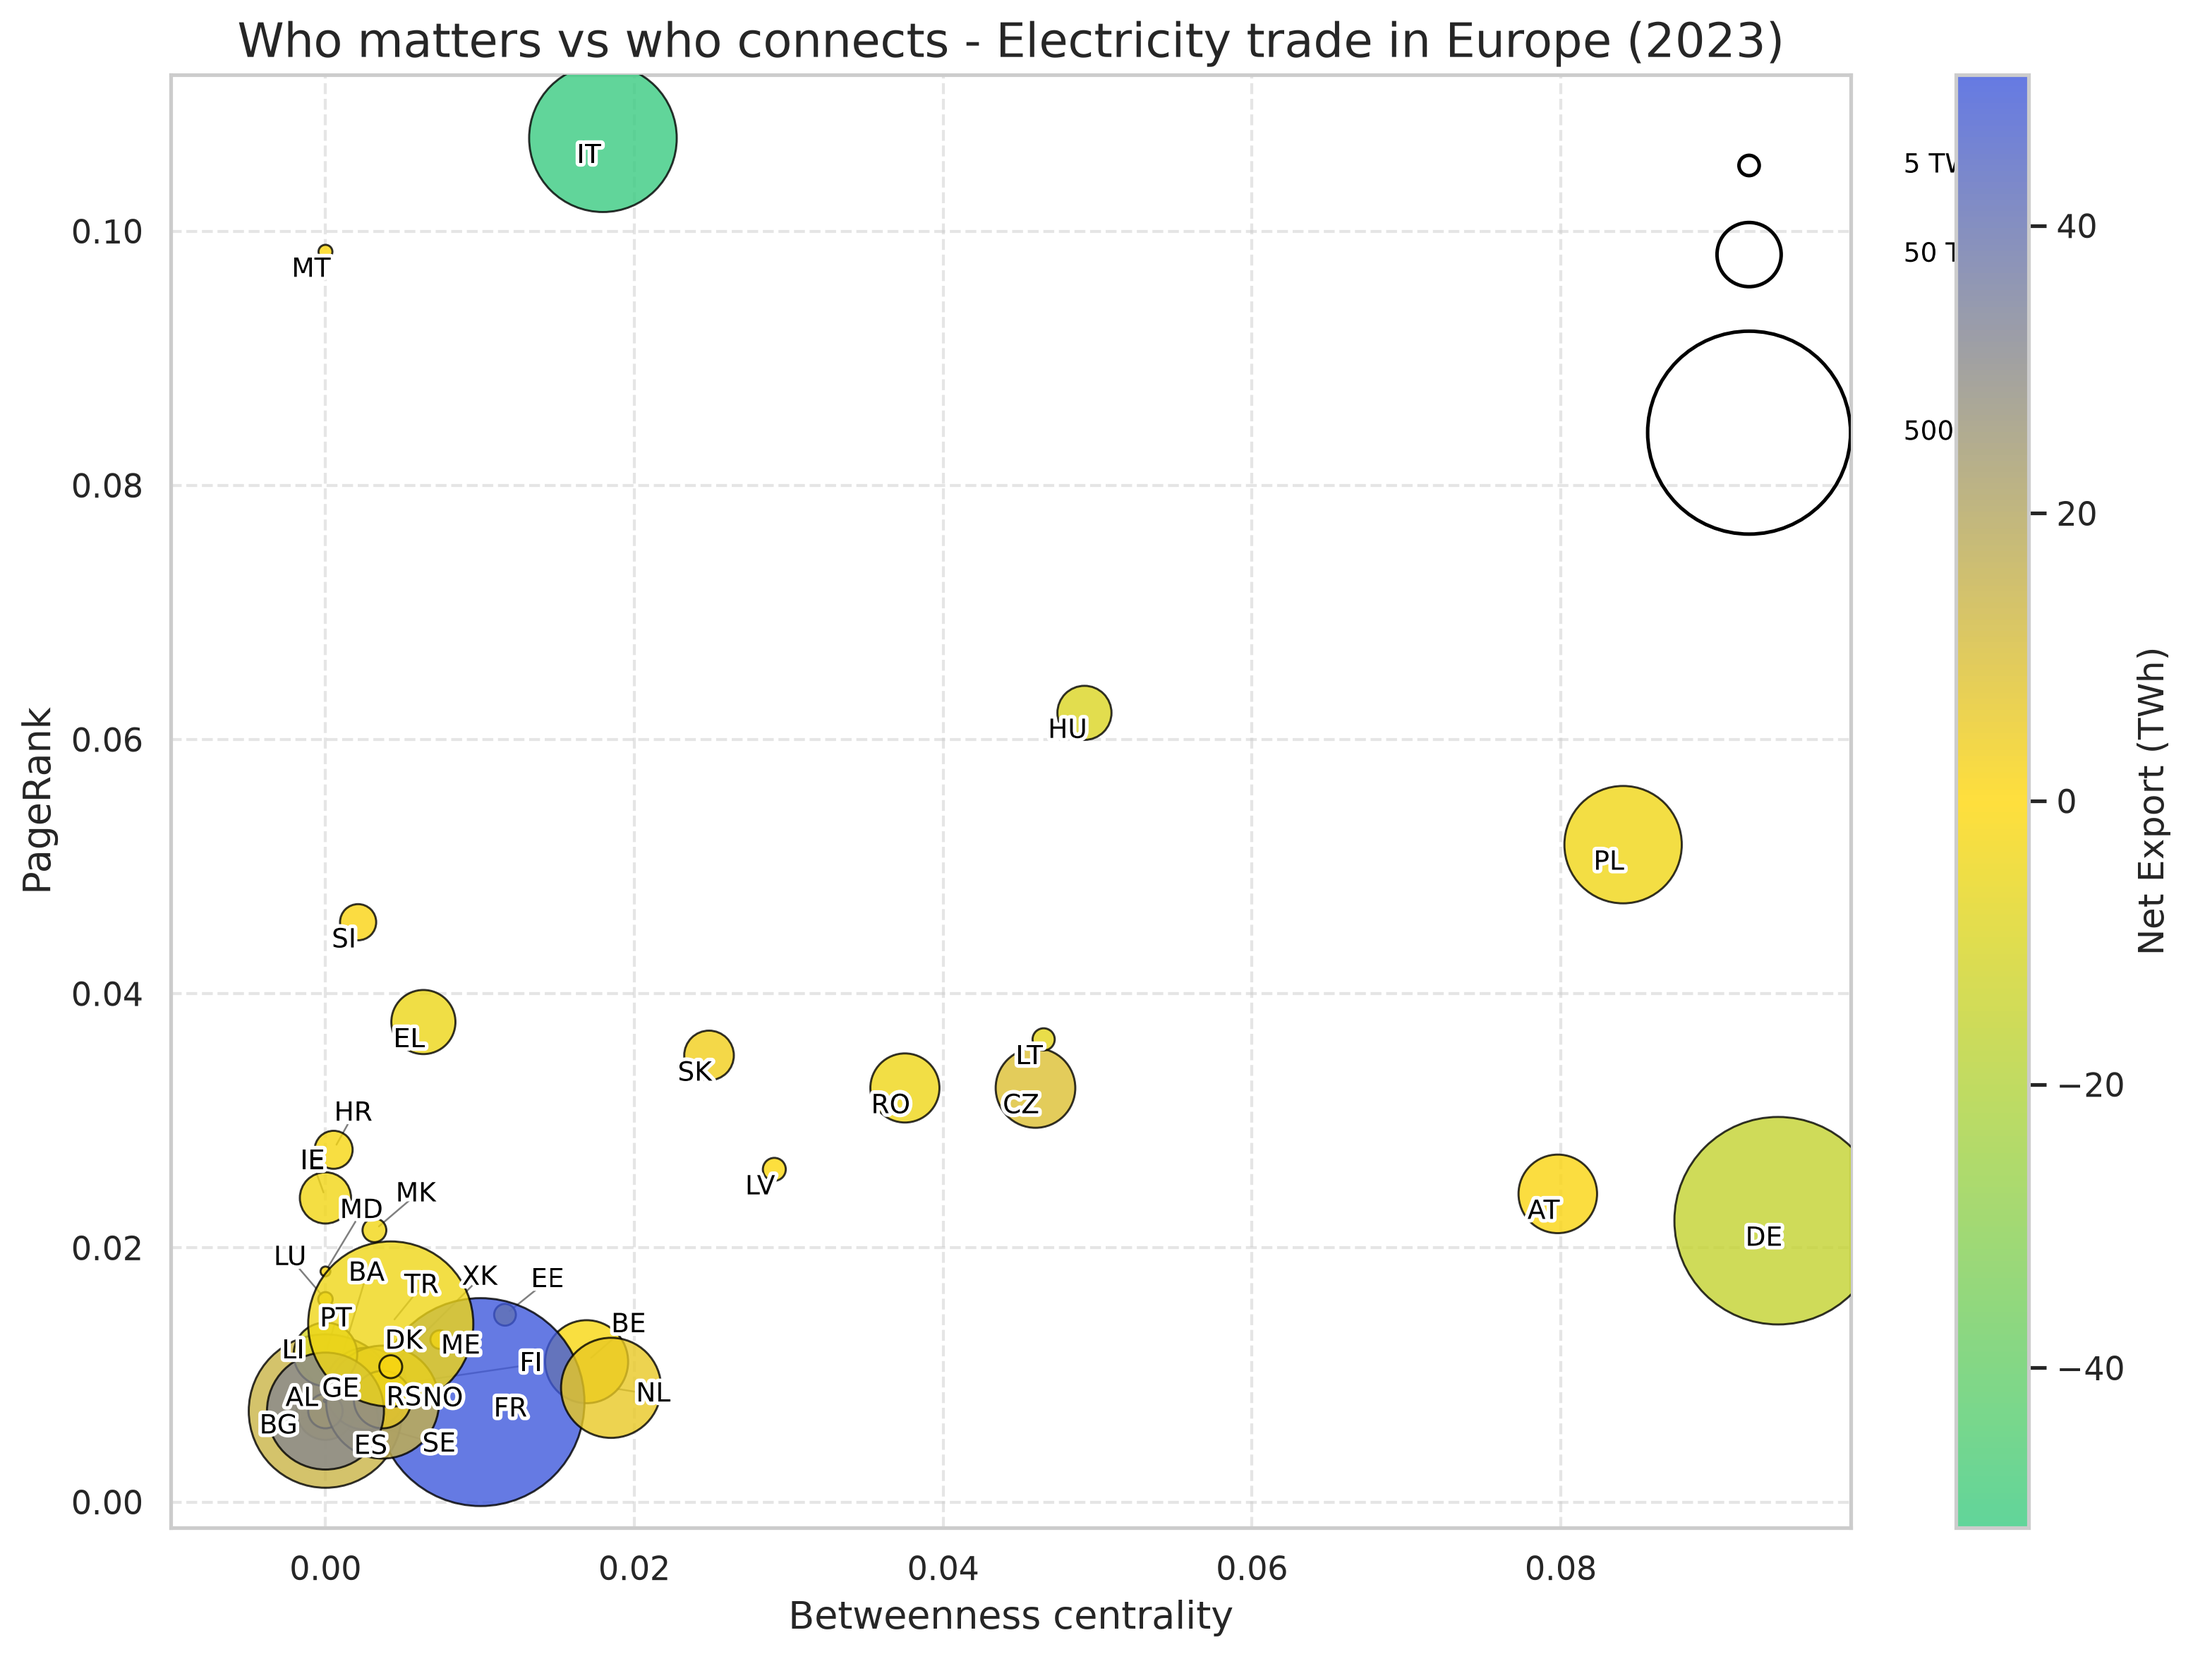
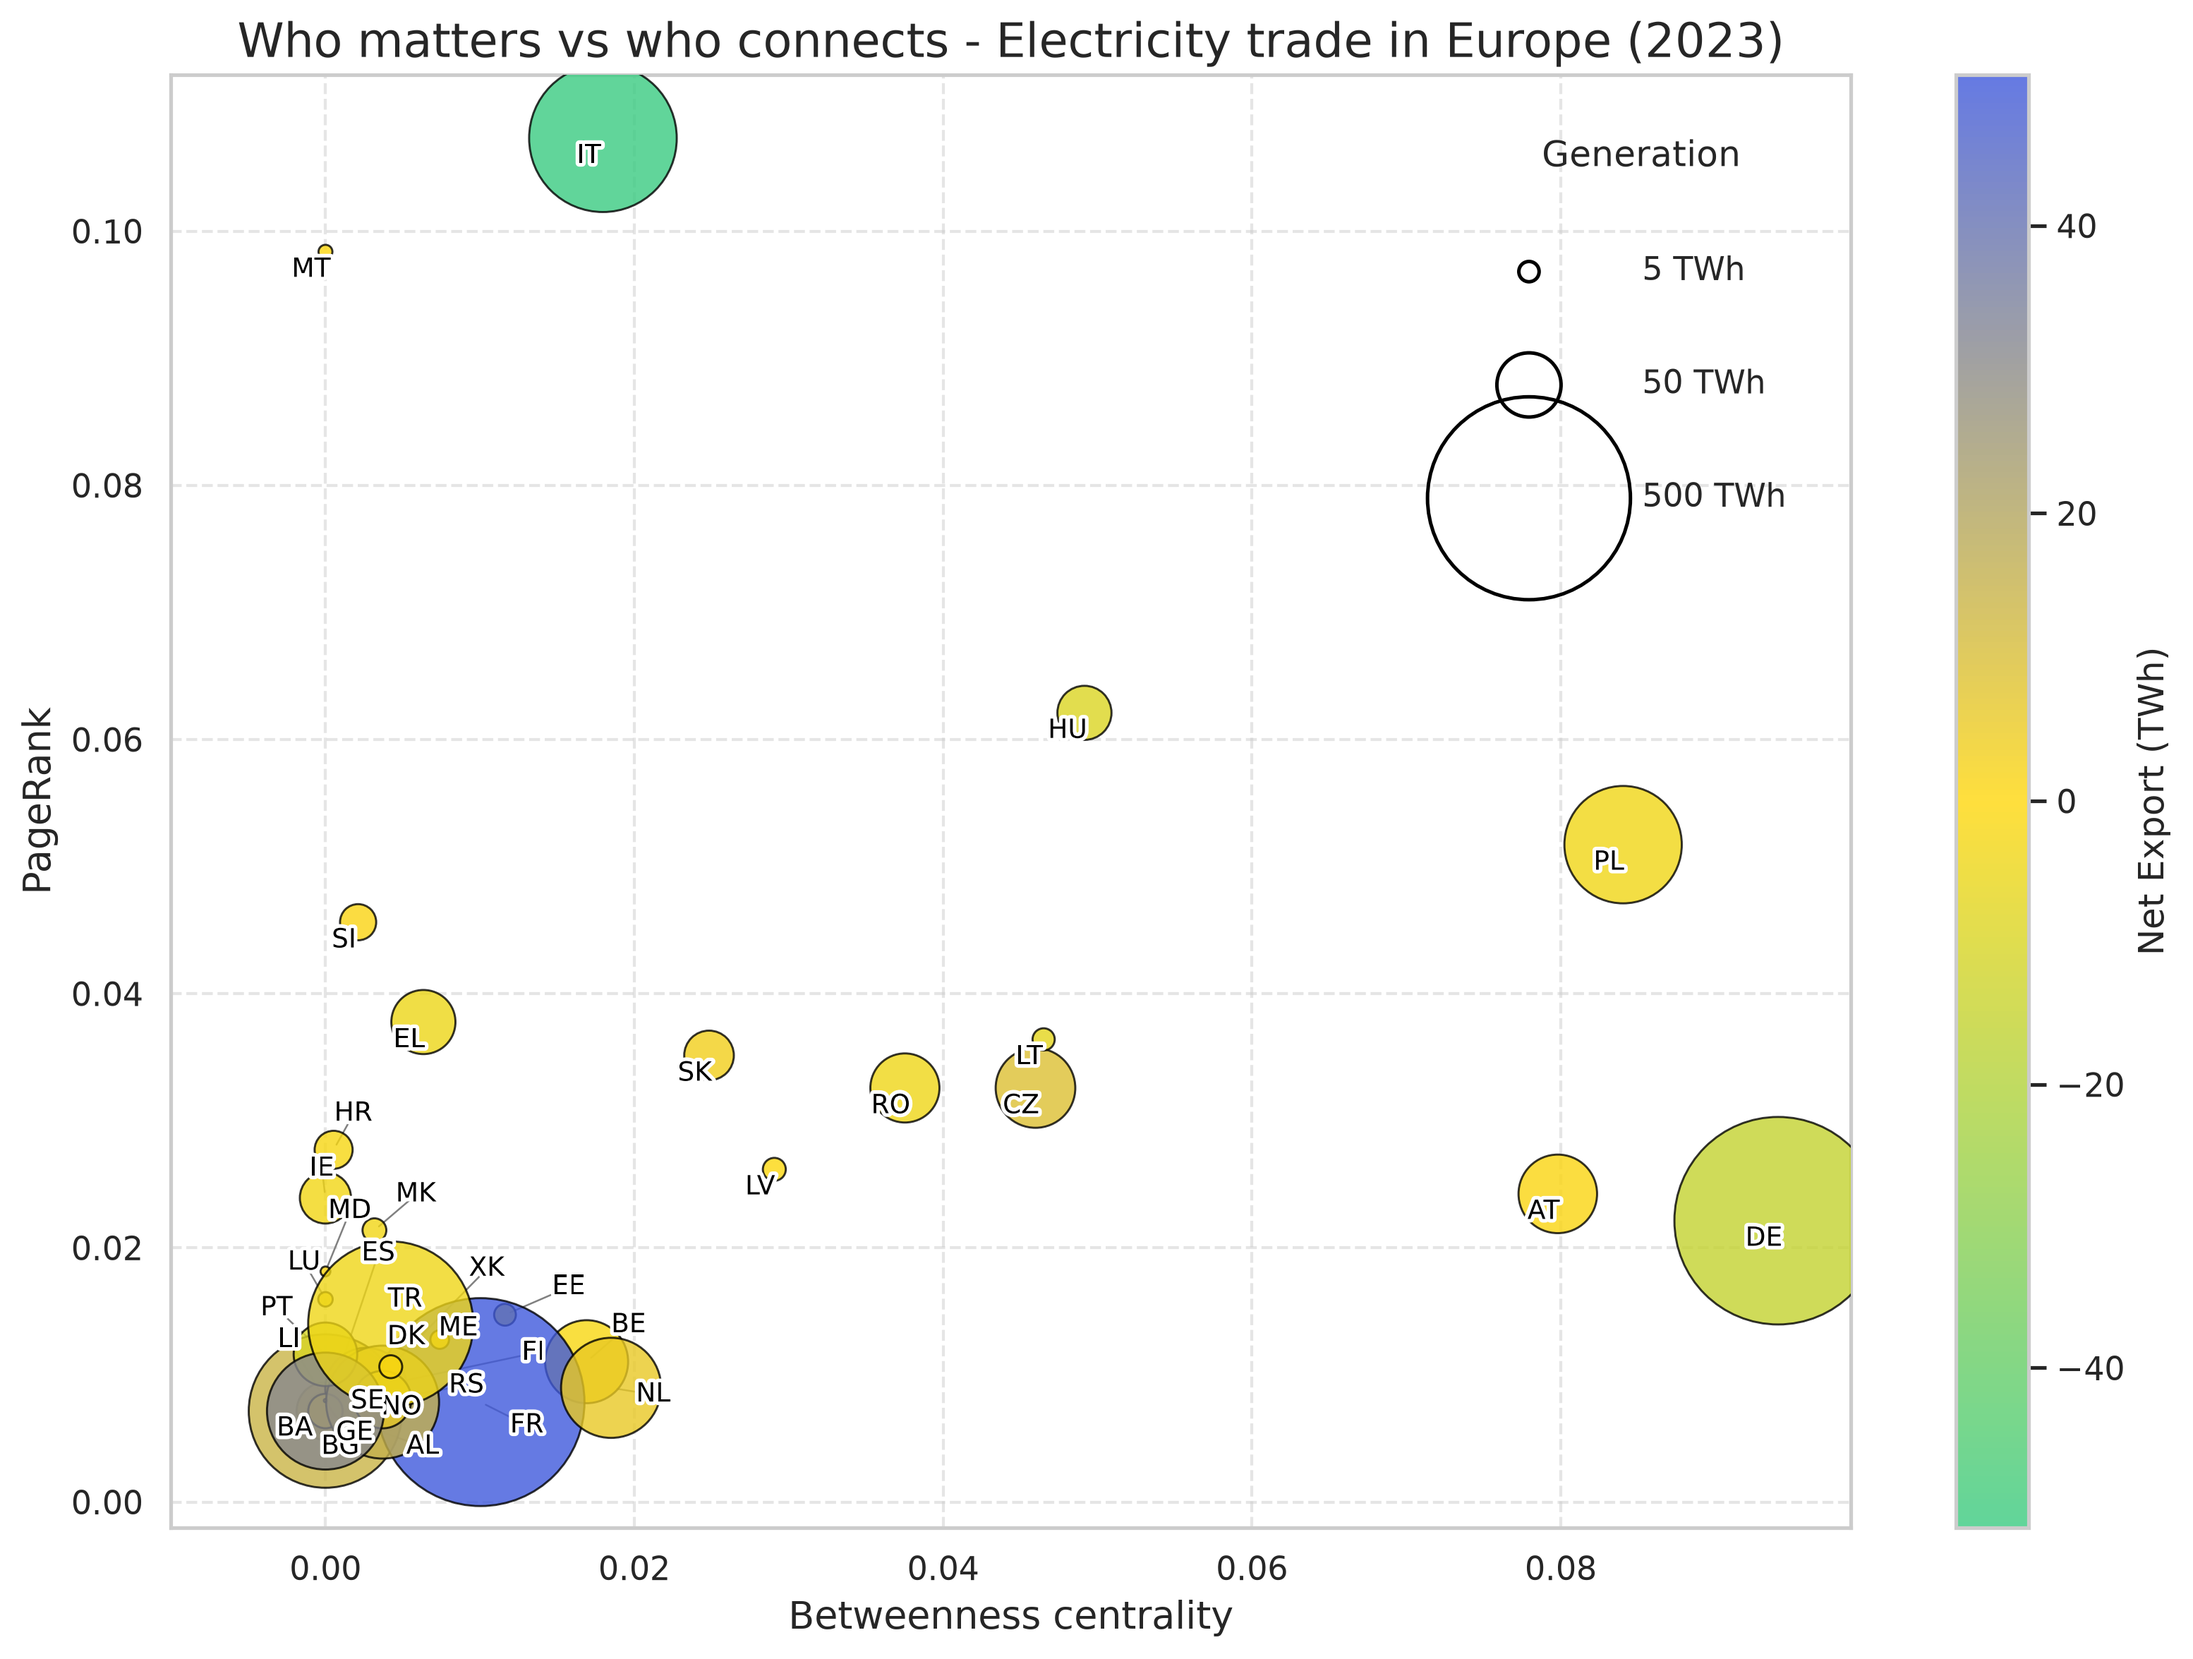
Show the generation size legend of the electricity scatter plot in full

diff --git a/course-5-social-network-analysis/electricity_pagerank/scripts/network_pagerank_analysis.py b/course-5-social-network-analysis/electricity_pagerank/scripts/network_pagerank_analysis.py
@@ -305,27 +305,15 @@ def main(argv: list[str] | None = None) -> int:
 
     # Bubble size legend (reference circles for generation, now in TWh)
     ref_sizes_twh = [5, 50, 500]  # TWh
-    # Place at top right
-    ref_x = plot_df['betweenness'].max() * 0.98 if plot_df['betweenness'].max() > 0 else 0.1
-    ref_y_start = plot_df['pagerank'].max() * 0.98 if plot_df['pagerank'].max() > 0 else 0.1
-    ref_y_gap = (plot_df['pagerank'].max() - plot_df['pagerank'].min()) * 0.07 if plot_df['pagerank'].max() > plot_df['pagerank'].min() else 0.02
-    for i, ref in enumerate(ref_sizes_twh):
-        # Move the 500 TWh circle and label a bit lower
-        y_offset = 0.007 if ref == 500 else 0.0
-        circle_y = ref_y_start - i * ref_y_gap - y_offset
-        # Draw the reference circle
-        plt.scatter(ref_x, circle_y, s=ref * size_scale, facecolors='none', edgecolors='black', linewidths=1.2, zorder=20)
-        # Place the label to the right, with a white halo
-        label_x = ref_x + 0.01
-        label_y = circle_y
-        ref_label = plt.text(
-            label_x, label_y, f"{ref} TWh",
-            va='center', ha='left', fontsize=9, color='black', weight='light', zorder=21
-        )
-        ref_label.set_path_effects([
-            path_effects.Stroke(linewidth=2.5, foreground='white'),
-            path_effects.Normal()
-        ])
+    handles = [
+        plt.scatter([], [], s=ref * size_scale, facecolors='none', edgecolors='black', linewidths=1.2)
+        for ref in ref_sizes_twh
+    ]
+    plt.legend(
+        handles, [f"{ref} TWh" for ref in ref_sizes_twh],
+        title="Generation", loc="upper right", frameon=False,
+        labelspacing=2.5, borderpad=1.5, handletextpad=2.5
+    )
 
     # Labels and title
     plt.title("Who matters vs who connects - Electricity trade in Europe (2023)", fontsize=16, weight='light')
